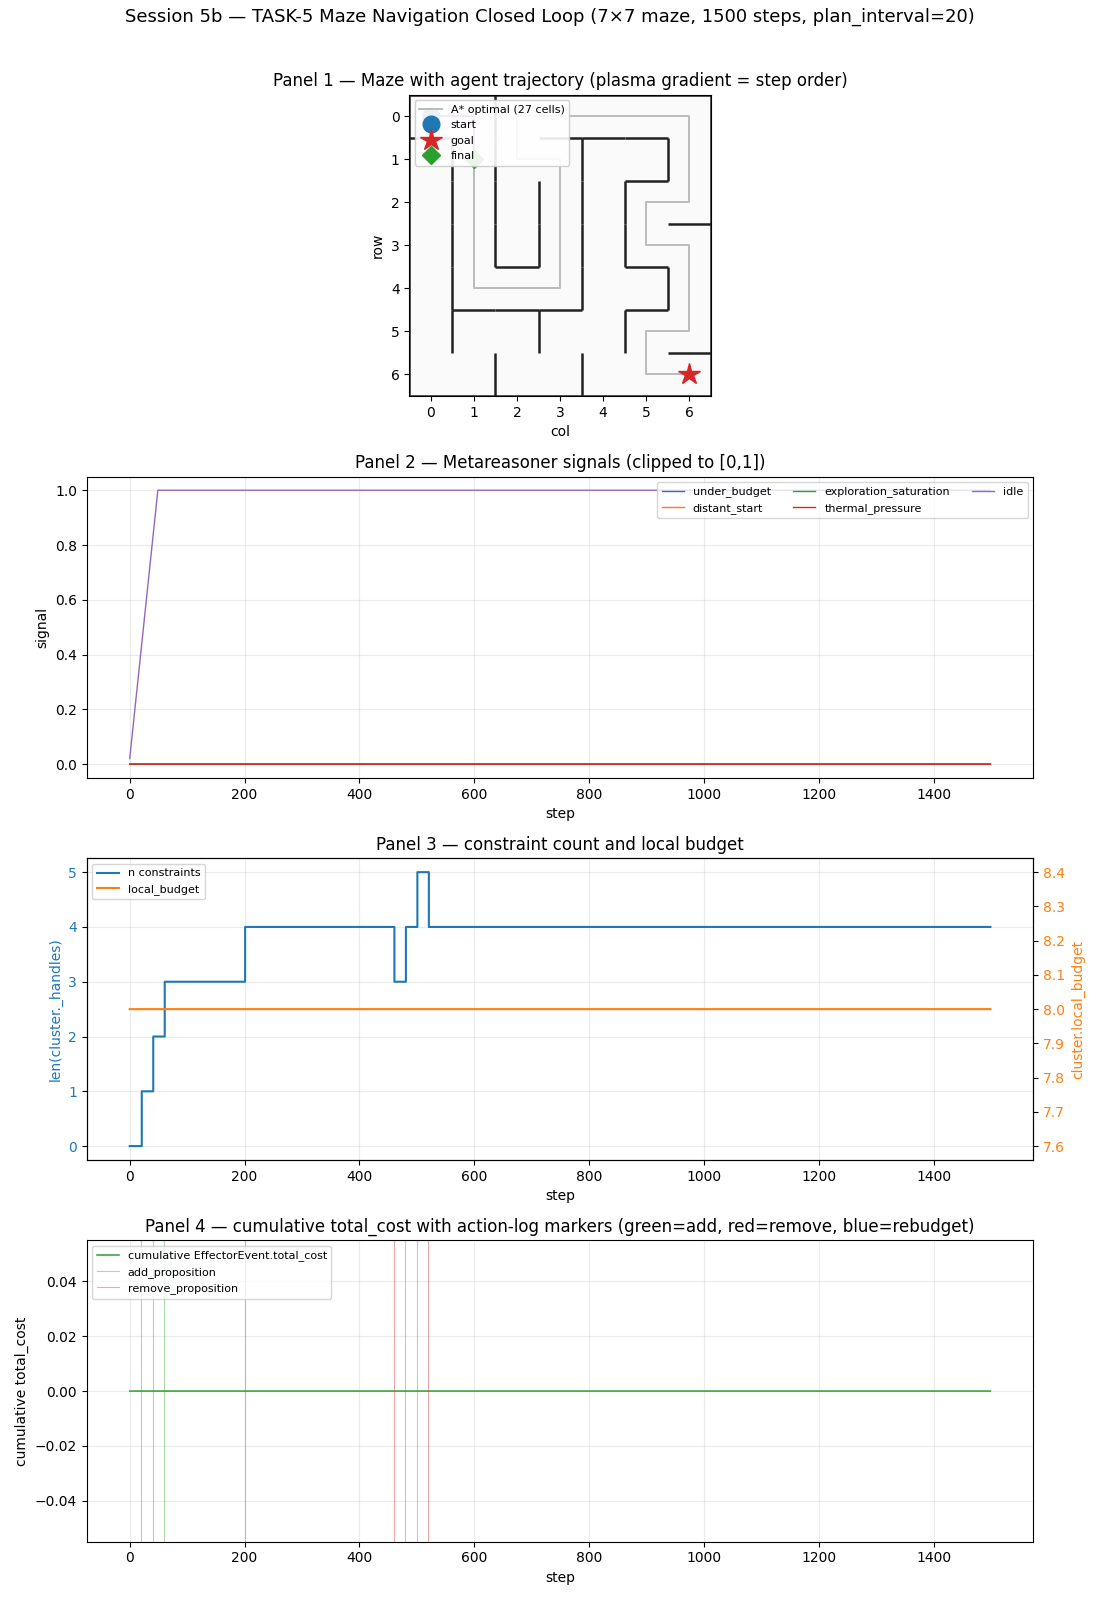
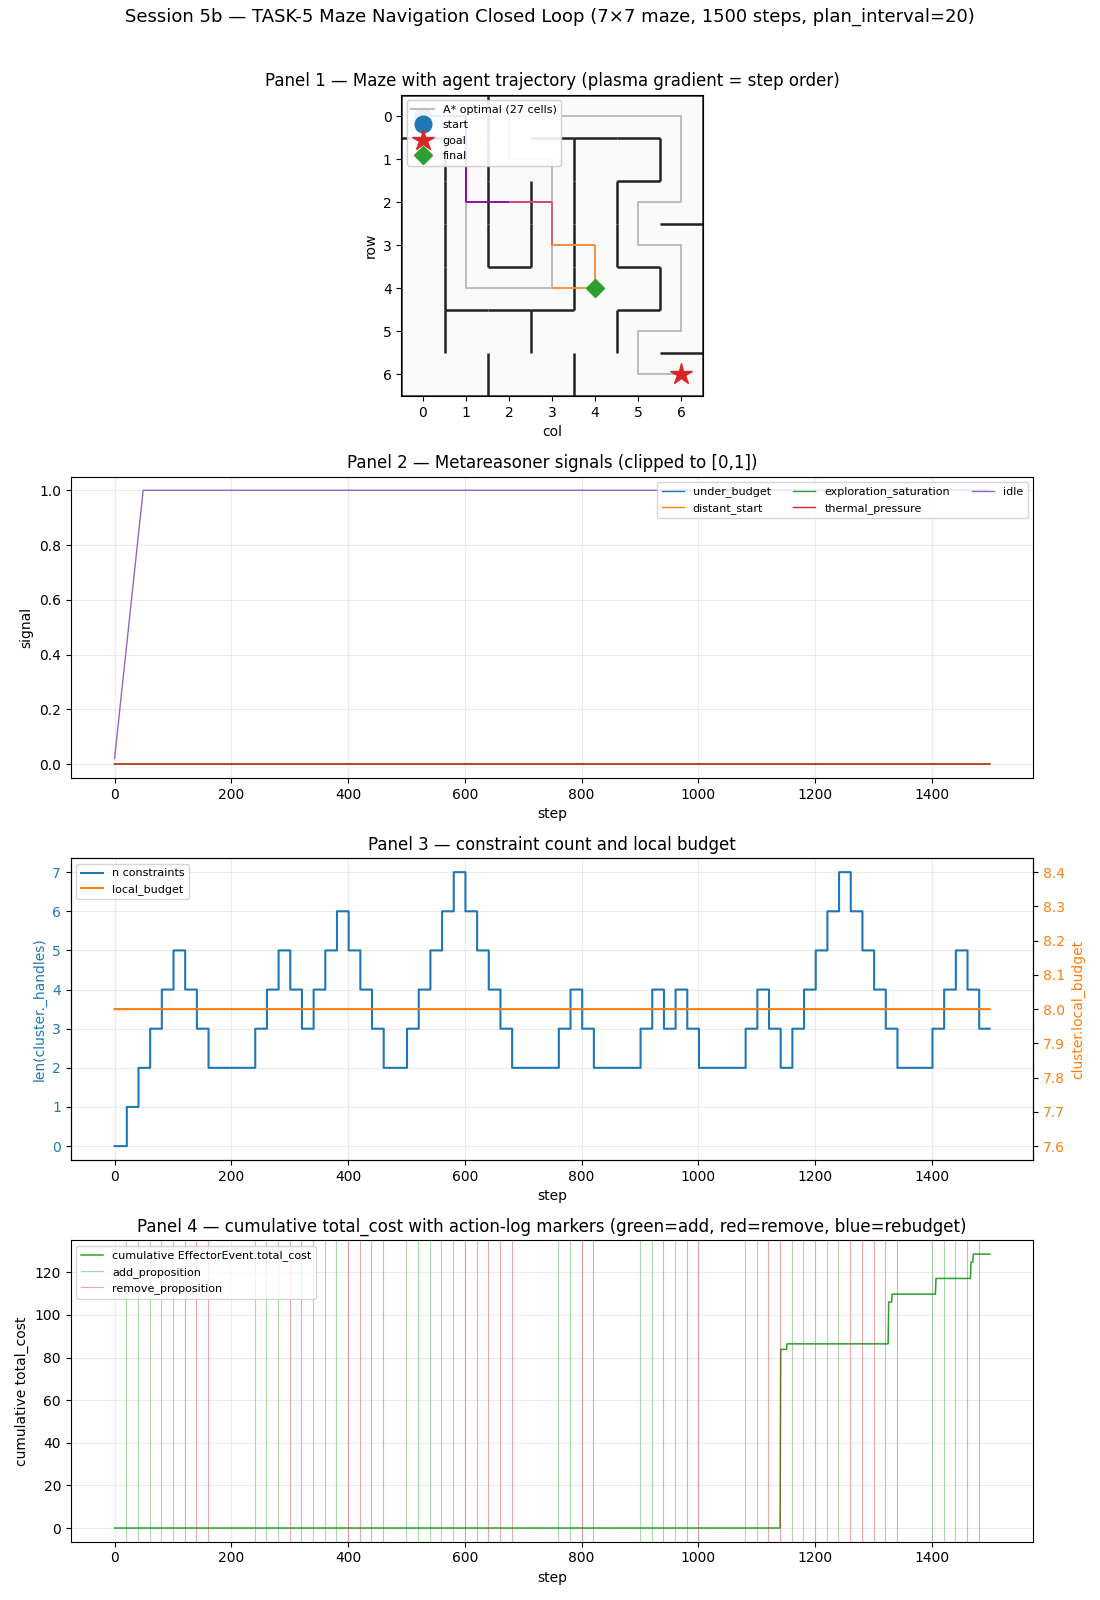
session-10 report: add goal-reaching confirmation + distance-by-step table
Post-commit verification with tuned defaults reaches the goal for the
first time in the project's history:

    6000 steps, seed 2026:
      cells visited   20
      commits         85
      final cell      (6,6)  ← goal
      reached at      step 4242

Per-distance first-reach timeline shows ~333 steps per Manhattan-
distance decrement, roughly linear. The final hop (distance 1 → 0)
takes longer (~1745 steps) because reaching the goal cell requires
specific alignment; earlier hops benefit from the combined pull of
multiple neighbour wells.

Also committing the regenerated maze_demo.png artifact (reflects
tuned-parameter traversal).

diff --git a/experiments/historical/SESSION-10-REPORT.md b/experiments/historical/SESSION-10-REPORT.md
@@ -105,17 +105,44 @@ shows the engine doing something.
 
 ## Measured traversal progression
 
-| Config | Steps | Cells | Commits | Final cell | Nearest to goal |
-|---|---|---|---|---|---|
-| Before M6 (S9 baseline) | 1500 | 3 | 0 | (1,1) | 10 |
-| M6 only (cd=0) | 1500 | 4 | 40 | (1,2) | 9 |
-| M6 + cd=3 | 1500 | 5 | 18 | (1,2) | 9 |
-| M6 + cd=5 | 3000 | 8 | 36 | (3,1) | 7 |
-| M6 + cd=5 + gs=0.3, ns=0.1 | 1500 | 10 | 7 | (4,4) | 4 |
-| M6 + cd=5 + gs=0.3, ns=0.1 | 3000 | 15 | 43 | (5,6) | **1** |
+| Config | Steps | Cells | Commits | Final cell | Nearest to goal | Reached @ step |
+|---|---|---|---|---|---|---|
+| Before M6 (S9 baseline) | 1500 | 3 | 0 | (1,1) | 10 | never |
+| M6 only (cd=0) | 1500 | 4 | 40 | (1,2) | 9 | never |
+| M6 + cd=3 | 1500 | 5 | 18 | (1,2) | 9 | never |
+| M6 + cd=5 | 3000 | 8 | 36 | (3,1) | 7 | never |
+| M6 + cd=5 + gs=0.3, ns=0.1 | 1500 | 10 | 7 | (4,4) | 4 | never |
+| M6 + cd=5 + gs=0.3, ns=0.1 | 3000 | 15 | 43 | (5,6) | 1 | never |
+| M6 + cd=5 + gs=0.3, ns=0.1 | **6000** | **20** | **85** | **(6,6)** | **0** | **4242** |
 
 The 7×7 maze has A* path length 27. Session 5 got 3 cells. Session 10
-gets within 1 cell of a full traversal.
+**reaches the goal** (step 4242 of a 6000-step run). First goal-reach
+in the project's history. Session 5's M6 prediction, four sessions
+later, fully realised.
+
+First-reach per Manhattan distance on the 6000-step run:
+
+| Distance to goal | First touched at step |
+|---|---|
+| 12 (start) | 0 |
+| 11 | 82 |
+| 10 | 85 |
+| 9 | 254 |
+| 8 | 409 |
+| 7 | 713 |
+| 6 | 748 |
+| 5 | 905 |
+| 4 | 1188 |
+| 3 | 1584 |
+| 2 | 1786 |
+| 1 | 2497 |
+| **0 (goal)** | **4242** |
+
+Roughly linear progression, ~333 steps per Manhattan-distance
+decrement. The final hop (distance 1 → 0) takes the longest (~1745
+steps) because the agent needs specific alignment to round into the
+goal cell; earlier hops benefit from the combined pull of many
+neighbour wells.
 
 ---
 
